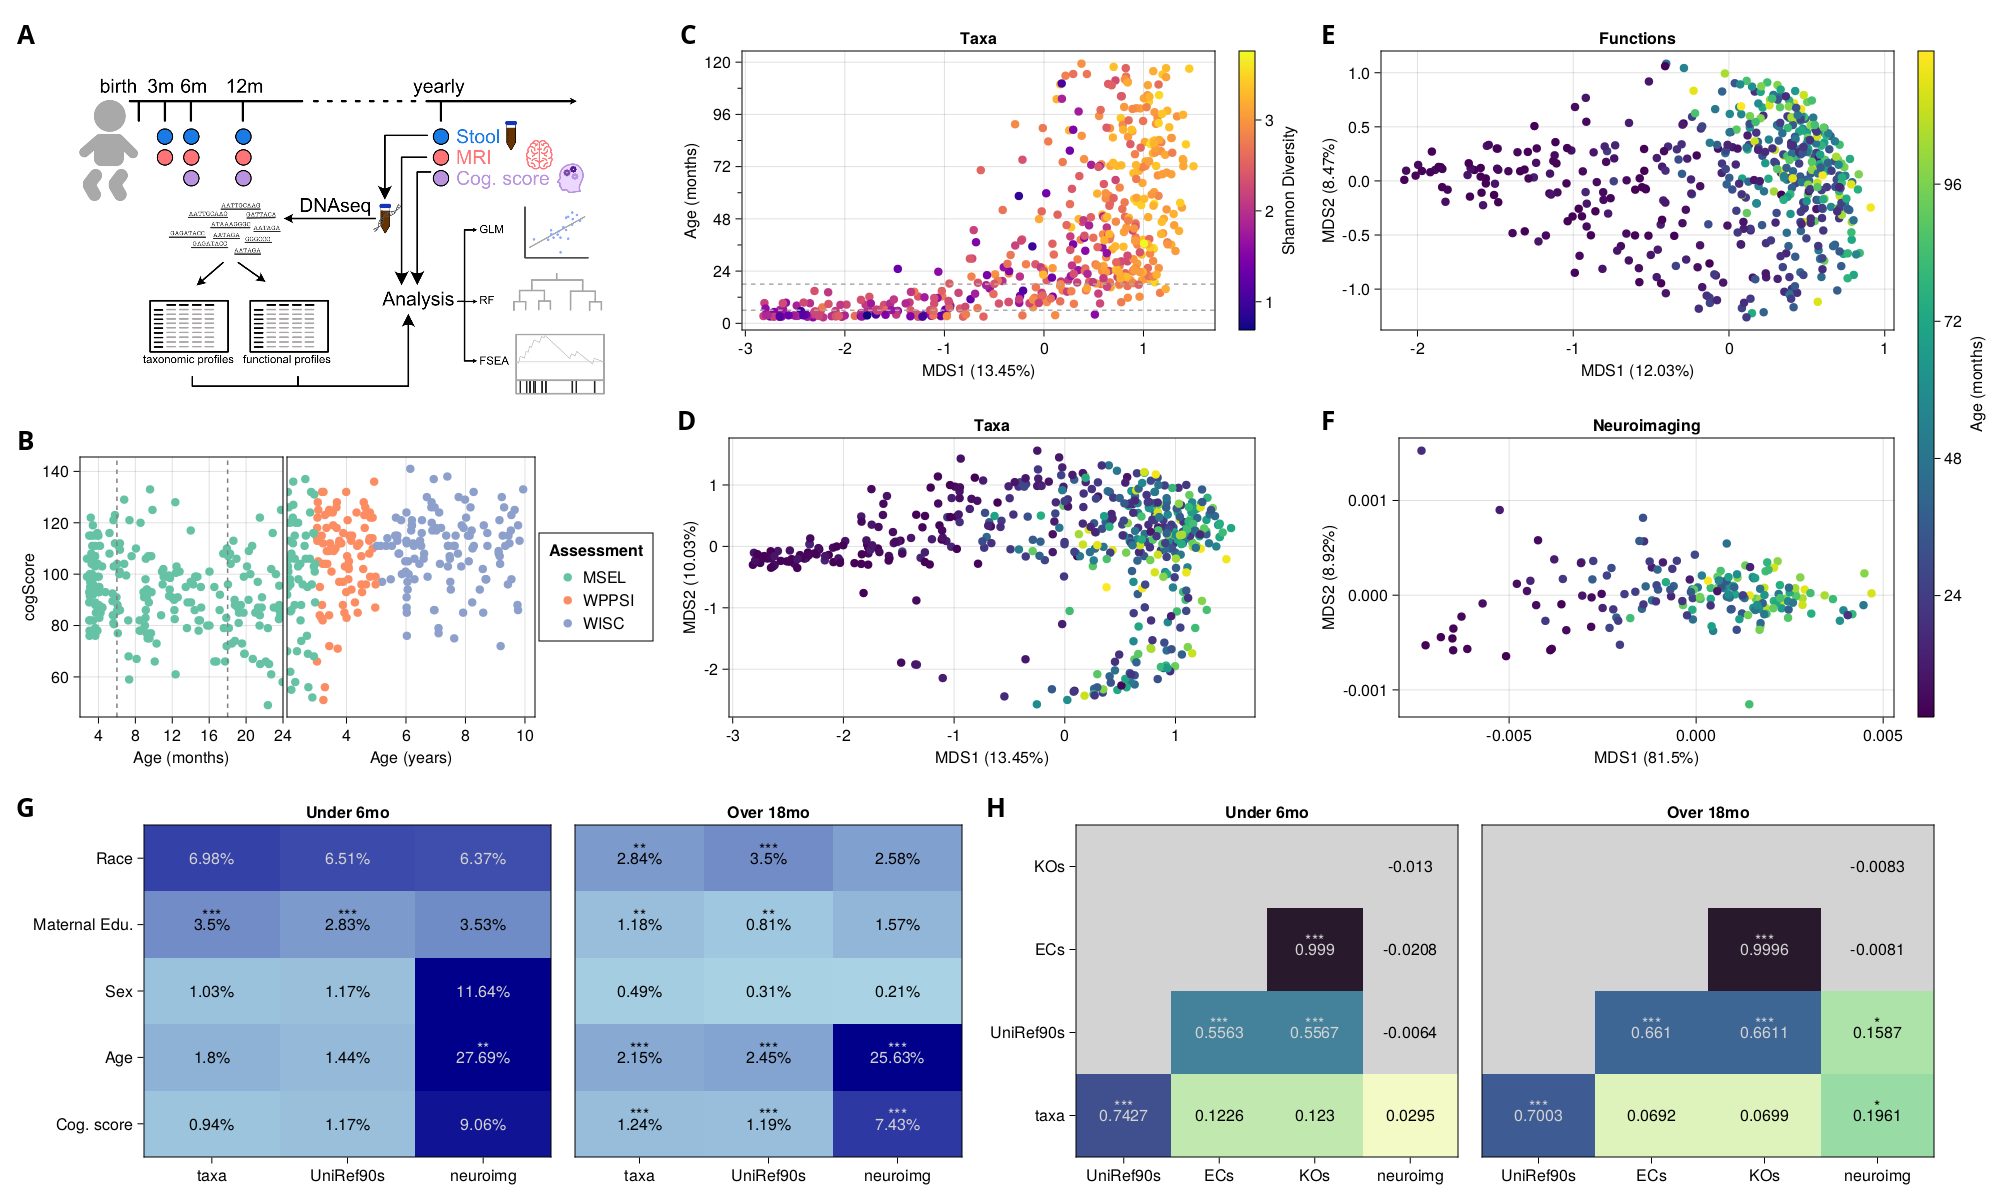
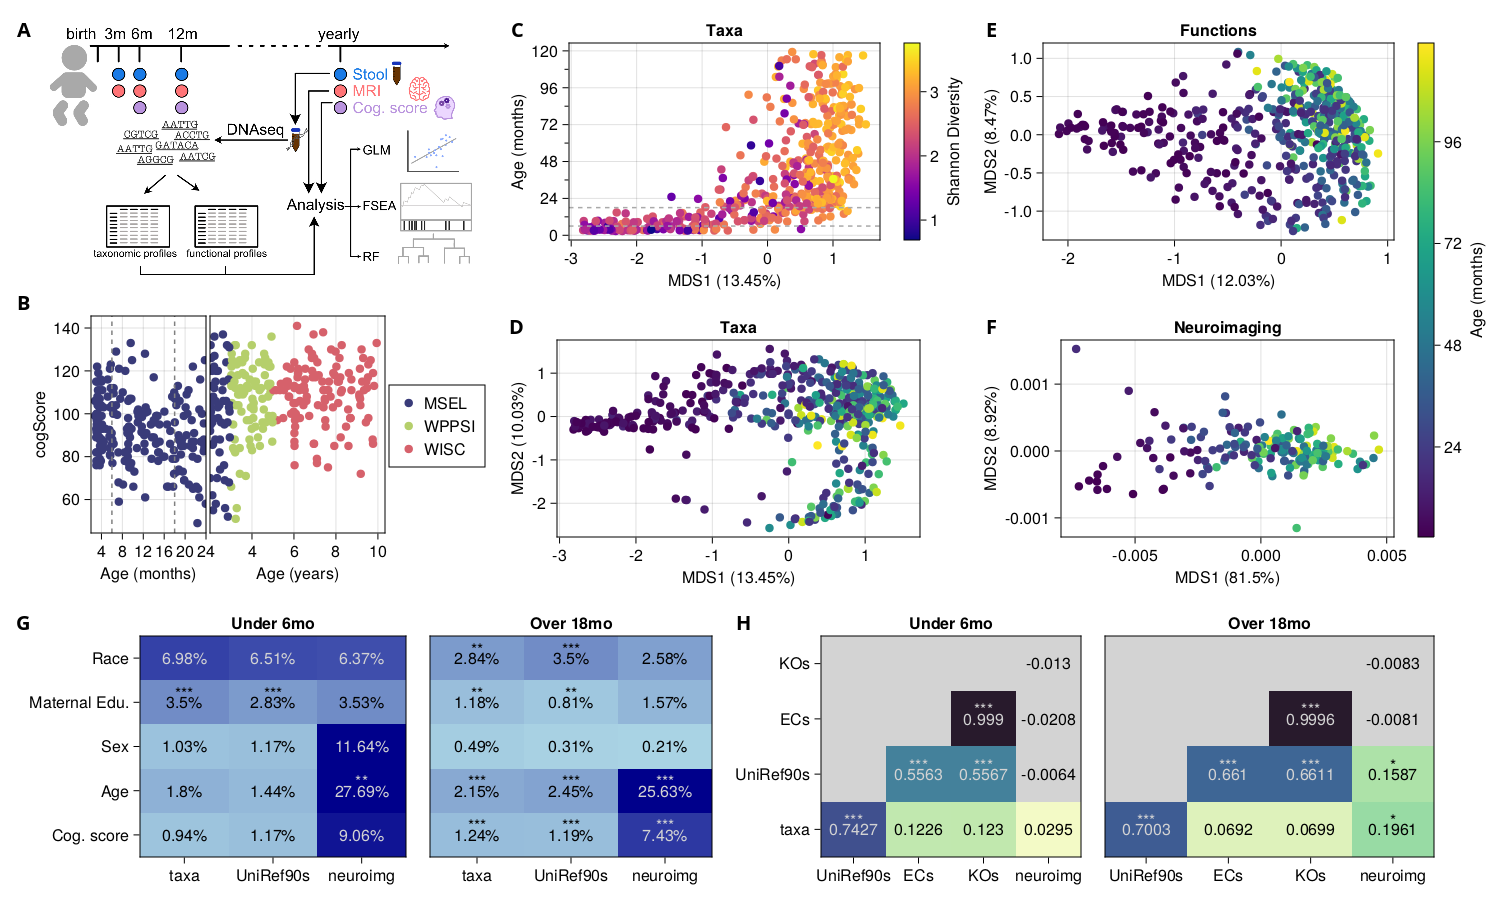
fixes for figure 1

diff --git a/manuscript/Figure1.md b/manuscript/Figure1.md
@@ -225,7 +225,7 @@ Label(H[1, 1, TopLeft()], "H",
 
  
 colsize!(figure.layout, 1, Relative(1/3))
-A_img.alignmode = Mixed(; top=-20, bottom=0, left=-20, right=-30)
+# A_img.alignmode = Mixed(; top=-20, bottom=0, left=-20, right=-30)
 figure
 ```
 
